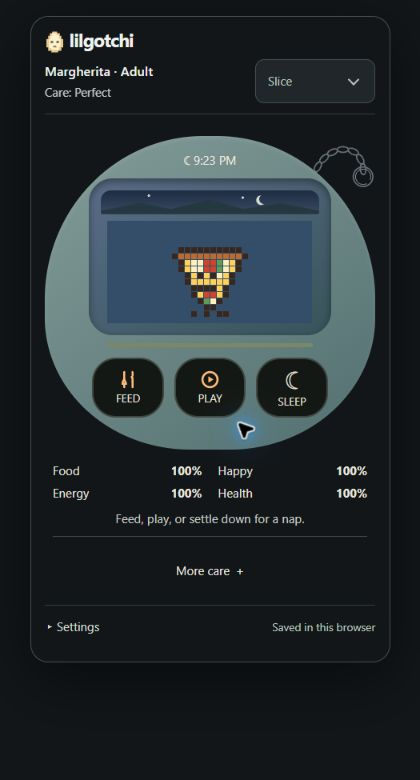
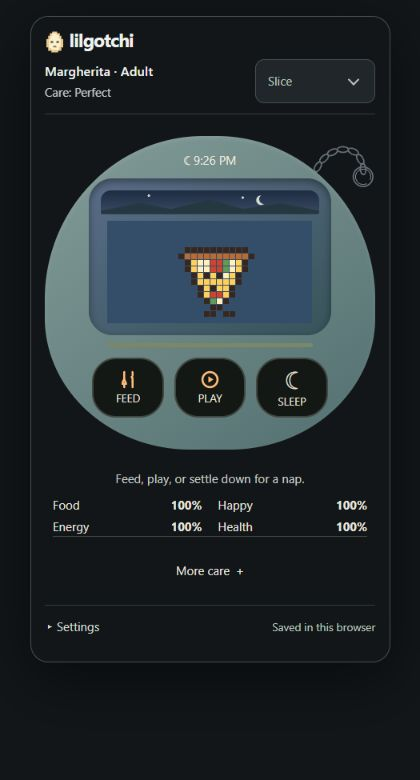
move care hint above meters

diff --git a/tests/care-status-preview.html b/tests/care-status-preview.html
@@ -1,0 +1,23 @@
+<!doctype html><meta charset="utf-8"><title>Care status review</title>
+<style>body{background:#121619;color:#eee;font:14px system-ui;margin:16px}main{display:grid;grid-template-columns:repeat(3,288px);gap:20px}h2{font-size:16px}lil-gotchi{width:288px;display:block}</style>
+<main></main>
+<script type="module">
+import {GameState} from '../pets/engine.js';
+import {getCharacter} from '../pets/catalog.js';
+import {SaveStore} from '../widget/save-store.js';
+import '../lilgotchi.js';
+const cases=[['Getting started',0],['Perfect',95],['Good',80],['Normal',60],['Bad',30],['Paused',95,{vacationAt:Date.now()}],['Remembered',95,{isDead:true,stage:"dead"}],['Inactive',95,{},true],['Not started',null]];
+for(const [label,score,extra={},inactive=false] of cases){
+ const family='slice',key='care-review-'+label+'-'+Date.now(),store=new SaveStore(key);
+ if(score!==null){
+ await store.acquire(family);store.load(family);
+ const state=new GameState(getCharacter(family));
+ Object.assign(state,{stage:'adult',character:'maskutchi',age:5,careTotal:score*3600000,careDuration:score?3600000:0,hunger:4,happiness:4,discipline:100,sleepOverride:'wake',sleepOverrideUntil:Date.now()+7200000,...extra});
+ if(state.vacationAt)state.vacationAt=state.lastProcessed; store.save(family,state);store.release(family);await store.pendingReleases.get(family);
+ }
+ if(inactive)store.preference('inactive-'+family,Date.now());
+ store.preference('introduced',true);
+ const section=document.createElement('section'),title=document.createElement('h2');title.textContent=label;section.append(title);
+ const pet=document.createElement('lil-gotchi');pet.setAttribute('character',family);pet.setAttribute('storage-key',key);pet.setAttribute('mode','inline');pet.setAttribute('muted','');section.append(pet);document.querySelector('main').append(section);
+}
+</script>

diff --git a/pets/game.html b/pets/game.html
@@ -55,8 +55,8 @@
   <div id="pet-identity"></div>
   <div id="growth-notice" hidden></div>
   <div id="pet-needs" aria-live="off"></div>
-  <div id="care-meters" aria-label="Pet needs"></div>
   <p id="care-hint"></p>
+  <div id="care-meters" aria-label="Pet needs"></div>
   <details id="more-care"><summary>More care</summary><div class="secondary-controls">    <button class="ctrl-btn" data-action="light">
       <span class="icon icon-color">&#128161;</span>
       <svg class="icon-mono" viewBox="0 0 24 24" fill="none" stroke="currentColor" stroke-width="2.5" stroke-linecap="round"><path d="M9 18h6"/><path d="M10 21h4"/><path d="M12 2v1"/><path d="M12 7a4 4 0 0 0-4 4c0 2 1.5 3 2 4h4c.5-1 2-2 2-4a4 4 0 0 0-4-4z"/></svg>
